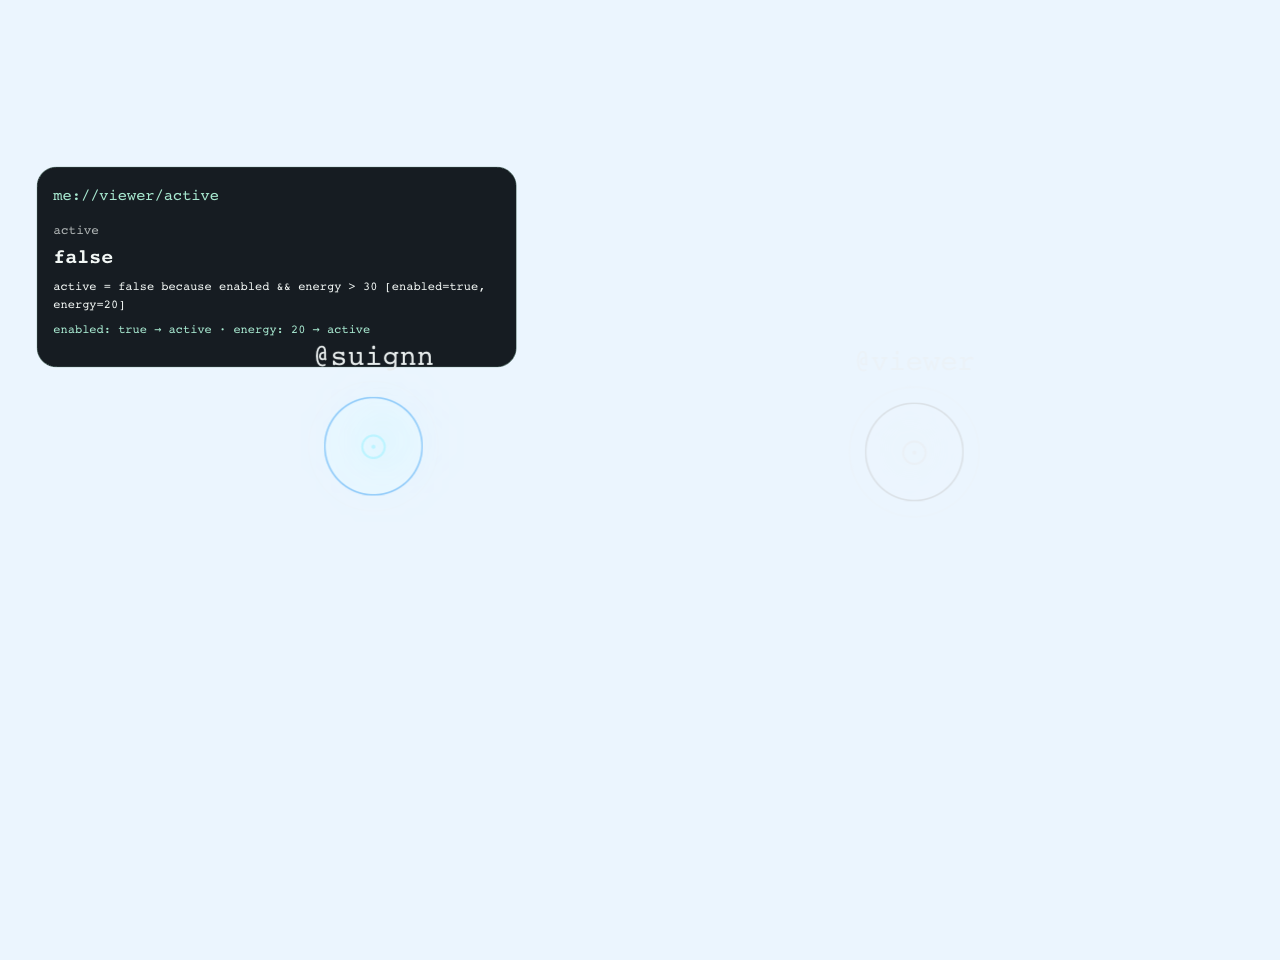
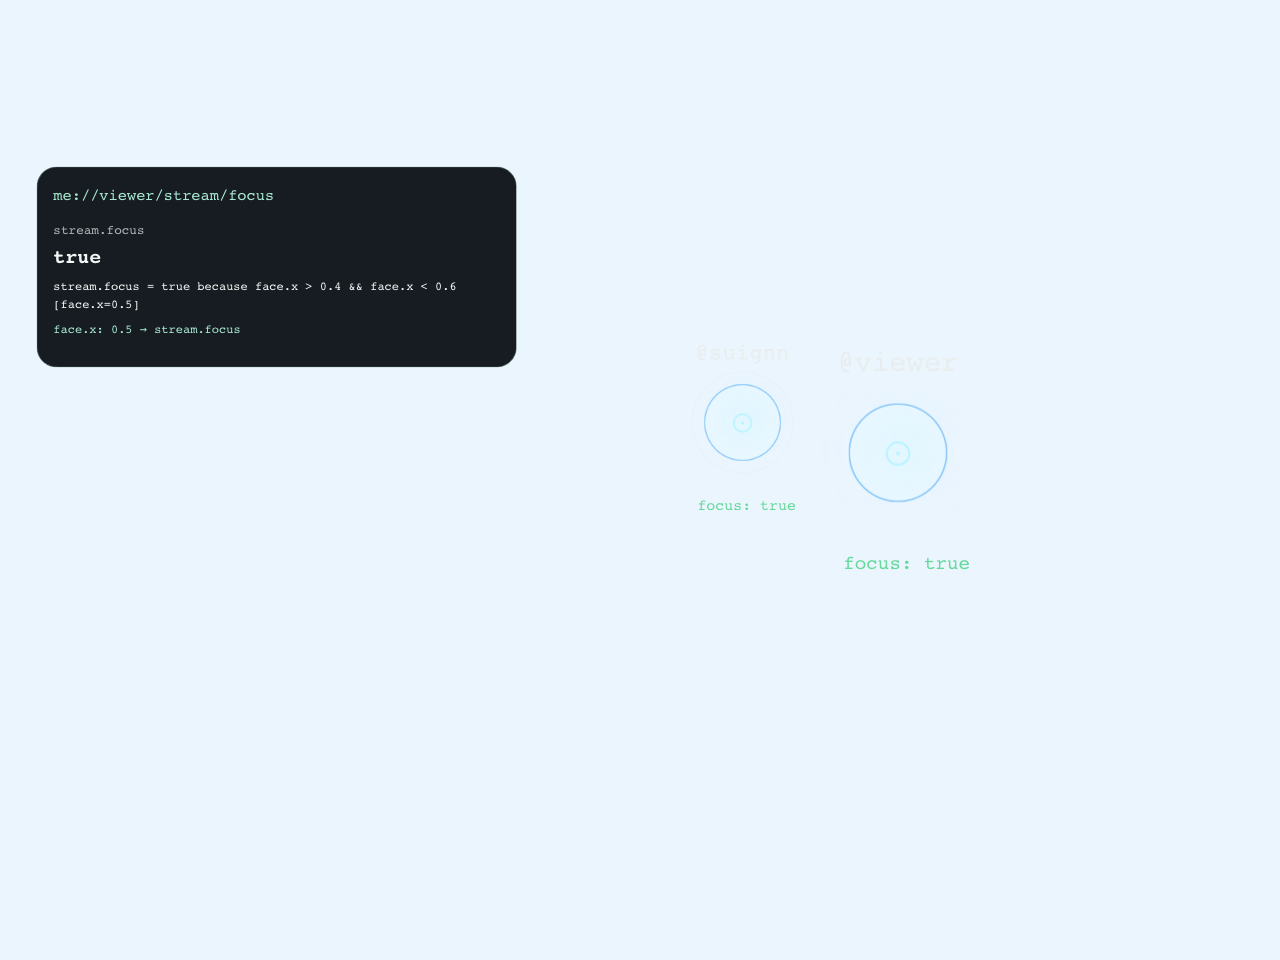
refactor: remove legacy energy and activation demo state

diff --git a/overlay/spiders.js b/overlay/spiders.js
@@ -60,12 +60,11 @@ function Kernel({ kernel, index, count, selected, onSelect }) {
   const x = tracked ? Math.max(44 * scale, Math.min(1920 - 44 * scale, (1920 - fitWidth) / 2 + face.x * fitWidth + side.current * 160)) : (index % columns + 0.5 + (columns - rowCount) / 2) * 1600 / columns + 160;
   const y = tracked ? Math.max(64 * scale, Math.min(1080 - 44 * scale, (1080 - fitHeight) / 2 + face.y * fitHeight - 90)) : (Math.floor(index / columns) + 0.5) * 780 / rows + 110;
   const focus = kernel.graph?.nodes.find(node => node.path === 'stream.focus')?.value;
-  const active = kernel.graph?.nodes.find(node => node.path === 'active')?.value;
-  return h('g', { 'data-focus': focus === undefined ? 'undefined' : String(focus), 'data-active': active === undefined ? undefined : String(active), 'data-me-id': kernel.id, 'data-me-bubble': kernel.id, 'data-face-follow': tracked ? 'true' : undefined,
+  return h('g', { 'data-focus': focus === undefined ? 'undefined' : String(focus), 'data-me-id': kernel.id, 'data-me-bubble': kernel.id, 'data-face-follow': tracked ? 'true' : undefined,
     transform: `translate(${x} ${y}) scale(${scale})`, onClick: onSelect, role: transparent ? undefined : 'button', tabIndex: transparent ? undefined : 0,
     onKeyDown: event => { if (event.key === 'Enter' || event.key === ' ') { event.preventDefault(); onSelect(event); } },
     'aria-label': `.me kernel @${kernel.owner}`, 'aria-pressed': transparent ? undefined : selected,
-    className: 'me-companion', style: { cursor: transparent ? 'default' : 'pointer', opacity: active === false ? .38 : 1, filter: active === false ? 'grayscale(1)' : undefined } },
+    className: 'me-companion', style: { cursor: transparent ? 'default' : 'pointer', opacity: 1 } },
     h('title', null, `@${kernel.owner} · ${kernel.presenceReason}`),
     !transparent ? h('rect', { x: -44, y: -60, width: 88, height: 100, fill: 'transparent', pointerEvents: 'all' }) : null,
     h('g', { className: 'me-companion-float', 'data-companion-motion': true, style: { animationDelay: `${-index * 0.8}s` } },

diff --git a/README.md b/README.md
@@ -64,28 +64,26 @@ Offline verification: `CHROME='/Applications/Google Chrome.app/Contents/MacOS/Go
 
 | Command | Result |
 |---|---|
-| `!me` | Declare your own kernel and present its active state on stream. |
-| `!me off` / `!me on` | Set your `enabled` fact. An inactive bubble dims instead of disappearing. |
-| `!me set energy 20` | Set your energy (0–100); the default rule makes `active` false. |
-| `!me rule active threshold 30` | Install the fixed template `enabled && energy > 30`. |
-| `!me rule active compare energy >= 30` | Compare energy with a bounded number; always gated by enabled. |
-| `!me rule active and enabled face.present` | React to the streamer's face-presence input, with enabled gating. |
-| `!me read active` | Read your value and present it on stream. |
-| `!me explain active` or `!explain active` | Present the actual native explanation and dependency values. |
-| `!me me("twitch.profile.login")` | Existing validated read syntax remains supported. |
-| `!me me.explain("active")` or `!explain` | Existing explain syntax; no-path explain now defaults to active. |
+| `!me` | Declare your independent kernel and present `stream.focus` on stream. |
+| `!me read twitch.profile.login` | Read your verified Twitch login. |
+| `!me read face.x` | Read the streamer's current horizontal face coordinate. |
+| `!me read stream.focus` | Read the native face-driven result. |
+| `!me explain stream.focus` or `!explain stream.focus` | Present the real expression and its `face.x` input. |
+| `!explain` | Explain `stream.focus` by default. |
+| `!me me("twitch.profile.login")` | Existing validated read syntax. |
+| `!me me.explain("stream.focus")` | Existing validated explanation syntax. |
 
-Rules use templates only. `active` is the only writable rule target. Threshold takes a number 0–100; compare accepts only `energy`, one of `> >= < <= == !=`, and a number 0–100. AND accepts two boolean inputs from `enabled` and `face.present`; all templates retain enabled gating. Quotes, arbitrary expressions, JavaScript calls and writes to `face.*` or `twitch.*` are rejected. Facts writable from chat are only `enabled` (boolean) and `energy` (number 0–100).
+The viewer graph contains only `twitch`, `face` and `stream.focus`. Legacy `enabled`, `energy`, `active`, on/off, set and rule-template commands have been removed. Chat declares, reads and explains; it cannot overwrite imported facts or the fixed face rule, execute JavaScript, enable a camera or start a broadcast.
 
-Writes have a 3-second gap/five per 30 seconds per stable Twitch user ID; reads/explanations have a 1-second gap/ten per 30 seconds. Limits include invalid attempts. Commands target only the sender's kernel; there is no username/ID parameter to write someone else's state. Maximum 64 session kernels. EventSub duplicates and the reply account's own messages are ignored. Legacy Spider creation commands remain unsupported.
+Declaration and invalid-command attempts retain the 3-second gap/five-per-30-second limit per stable Twitch user ID; reads/explanations retain a 1-second gap/ten-per-30-second limit. Commands target the sender's kernel. Maximum 64 session kernels. EventSub duplicates and the reply account's own messages are ignored. Legacy Spider creation commands remain unsupported.
 
 ## Shared presentation: app → OBS → Twitch
 
 Open a bubble in the web app and select a public fact or branch. The authenticated channel owner's selection is relayed by the localhost:3017 server to all kernel views, including a separately loaded transparent OBS source. For Twitch resources, that source uses the same profile and Stream / Channel / Followers card component as the web app, with editing disabled. Live kernel paths display their actual value and native `explain()` reason and dependency values. Closing the bubble clears the presentation. The web app retains editing controls; the shared Twitch card contains server-confirmed public values only, never unsaved edits, credentials or a DOM capture.
 
-Viewer commands declare/present only their own kernel. Accepted changes/read/explain requests can place it on stream for 15 seconds. Shared chat presentations have a global two-second gap; host selections take priority for three seconds. Host presentation writes require the authenticated broadcaster, exact Origin and CSRF; WebSocket clients cannot publish arbitrary presentation payloads. New OBS connections receive the current presentation immediately. More than six selected leaves are summarized in the broadcast card; all paths remain inspectable in the app.
+Viewer commands declare/present only their own kernel. Declaration/read/explain requests can place it on stream for 15 seconds. Shared chat presentations have a global two-second gap; host selections take priority for three seconds. Host presentation writes require the authenticated broadcaster, exact Origin and CSRF; WebSocket clients cannot publish arbitrary presentation payloads. New OBS connections receive the current presentation immediately. More than six selected leaves are summarized in the broadcast card; all paths remain inspectable in the app.
 
-`enabled`, `energy` and `active` are real top-level kernel memories. The default rule is `enabled && energy > 30`. `face.present`, `face.x` and `face.y` are trusted read-only facts about the **streamer's tracked face**, not the viewer's face or identity. Positions are normalized and rounded to two decimals; lost/stopped/stale tracking sets presence false and coordinates null. No chat command can enable a camera, change these facts or start a broadcast. Optical display points remain transient outside the kernel.
+`face.present`, `face.x` and `face.y` are trusted read-only facts about the **streamer's tracked face**, not the viewer's face or identity. Positions are normalized and rounded to two decimals; lost/stopped/stale tracking sets presence false and coordinates null. No chat command can enable a camera, change these facts or start a broadcast. Optical display points remain transient outside the kernel.
 
 Camera inputs refresh at most twice per second, unchanged facts are not rewritten, and the runtime periodically reconstructs each kernel from current facts and native rule expressions to bound internal write history. This uses public this.me construction/read/explain APIs and preserves the public state/rules; it is not a persistent event history or a modified kernel. Server restart clears session data.
 
@@ -99,7 +97,7 @@ The selected kernel's profile header renders its real Twitch avatar, display nam
 
 The profile and bubble card use the label `@<login>.twitch` with the actual avatar and Twitch logo. This is a local account label, not a claimed protocol namespace or a registered domain. **Stream / Channel / Followers** are always-visible card tabs; Profile facts remain available in the technical inspector. The bubble is a rendered GUI surface: Channel is a labeled form with a human-readable language name and tags; Stream shows live/offline status and live statistics; Followers shows the actual count. The account header itself is the rendered profile, and its Twitch icon opens the channel and has an accessible **Open in Twitch** tooltip; no duplicate profile tab or View on Twitch button is shown. Twitch resource forms retain their rendered GUI presentation; live facts expose their native output and explanation. Channel, Stream and Followers are API resource choices, not invented kernel facts before loading.
 
-Clicking a bubble opens its controls beside the node, synchronized with the inspector. Both share the selected kernel/path. Clicking or focusing a channel field, selecting tags, a profile avatar/display name, a follower count or any available live-stream value selects its matching inspector leaf. The matching rendered control receives a theme-colored outline. Selecting a branch or leaf in the inspector also reopens the selected node’s card if closed, without moving keyboard focus or changing the active sidebar. Selecting a profile ID highlights its account header; no extra ID field is added to the GUI. The bubble card retains its original profile and Stream / Channel / Followers UI, initially showing Stream. Live facts and rule code stay in the Inspector; they are not added to the bubble card. The inspector tree begins at me and includes twitch, enabled, energy, face and active. Closing the card preserves selection. Editing controls remain outside the transparent OBS source; the selected public value and reason are shared through the presentation card.
+Clicking a bubble opens its controls beside the node, synchronized with the inspector. Both share the selected kernel/path. Clicking or focusing a channel field, selecting tags, a profile avatar/display name, a follower count or any available live-stream value selects its matching inspector leaf. The matching rendered control receives a theme-colored outline. Selecting a branch or leaf in the inspector also reopens the selected node’s card if closed, without moving keyboard focus or changing the active sidebar. Selecting a profile ID highlights its account header; no extra ID field is added to the GUI. The bubble card retains its original profile and Stream / Channel / Followers UI, initially showing Stream. Live facts and rule code stay in the Inspector; they are not added to the bubble card. The inspector tree begins at me and includes twitch, face and stream.focus. Closing the card preserves selection. Editing controls remain outside the transparent OBS source; the selected public value and reason are shared through the presentation card.
 
 The inspector alone presents formatted whole-section JSON or a compact leaf value, with an icon-only Copy action and no surrounding code card. Its code tree starts at **me**, including the live graph and **twitch** branch, with **profile / stream / channel / followers** as lowercase property keys instead of category tabs. Expand branches to see actual stored leaves and their values, then select a row to inspect it. The root is a navigation view without a duplicate aggregate output; selecting a branch or leaf reveals its Output, Explain and Script controls. Arrow keys, Home/End and Enter navigate the tree. Branches are UI groupings of real memory paths; unloaded API sections have no fabricated values and are fetched on selection. Long string previews are truncated in the tree, while selecting the leaf exposes its complete value. It automatically reads `me(path)` from the existing server kernel. Compact **Explain / Script** controls below the output show the actual `me.explain(path)` JSON or the complete construction source, including expression, derivation and metadata from this.me 4.2.1. Tab selection persists across paths and kernels; obsolete query results are hidden. Explain is initially selected; arrow keys and Home/End navigate the tabs. Native GUI syntax highlighting is preserved without code-block headers, borders or backgrounds; copy actions use the overlapping-squares icon with accessible tooltips. Explain presents the matching syntax directly on the inspector background. Its compact **L…** link identifies the original source line(s), and the **{}** icon reveals the unmodified native explanation only when requested. The location link (**View in Script** to assistive technology) opens the complete, numbered script and scrolls to the highlighted declaration. Locations refer to the currently displayed reproducible construction script; they are not native VM execution frames or historical call stacks. Unrelated profile/section declarations are omitted from the Explain excerpt. The construction script is not re-executed, and arbitrary code/eval is not accepted. This object inspector is separate from GUI's general interface inspector and browser DOM developer tools. Face following changes presentation only. Bubble sizes use a larger resting cap (3.6) and tracking scale (2.8), with density limits and proportional frame margins to keep the scene readable.
 

diff --git a/evidence/SESSION.md b/evidence/SESSION.md
@@ -725,3 +725,12 @@ GitHub API confirmed suiGn/codex-me already public on main. Fetched origin/main;
 User requested one small rule, stream.focus = face.x >0.4 && face.x <0.6, to demonstrate real input→kernel recomputation→native explanation within a short implementation window. Verified both scoped/root operator forms on this.me4.2.1: center.5 true, outside/boundaries false, missing/null face.x yields native undefined. Seeded exactly this fixed rule in each independent participating kernel using the root-path declaration shown in its reproducible script. No chat grammar, OAuth, connection, camera permissions or kernel library changes. Face facts remain read-only and already refer to the streamer. Added a green status dot to the real inspector node, expanded stream branch, small web/OBS focus readout, and honest undefined output rendering. Actual graph edge and native explain inputs come from face.x; no explanation or false value fabricated.
 
 New focus check passes with simulated Twitch/coordinates and real kernel/server/GUI/WS: strict bounds, center/outside, absent input, edge/trace,700 updates through compaction, fixed-rule write rejection, inspector light, separate OBS result/reason, exact source declaration. All10 original and19 server tests pass. Restarted only codex-me on verified-free3017, reused OAuth (authenticated/EventSub connected), reloaded web, refreshed confirmed OBS Browser source. Actual inspector selected stream.focus with native expression and missing face.x trace. Camera and OBS stream were already off and left off; no claim of a completed human face-center live take. Screenshot outside repo:/private/tmp/codex-me-face-focus.png; committed image is synthetic only in evidence/focus. Documented short reproduction and adjusted the English video plan to use this real-input rule. No real chat messages, Start/Stop stream, pushes of credentials, or changes to package-lock.json.
+
+
+### 2026-11-02 — Remove legacy energy/activation demo state
+
+User identified enabled/energy/active as obsolete demo machinery and asked to retain Twitch, face and stream.focus without touching login/connection. Removed their seed facts/rule, the legacy on/off/set/rule-template parser/handlers/help, and the bubble dimming tied to active. Declaration and no-path explain now present stream.focus. Current chat supports declaration, read and explain, with existing per-user limits; attempts to recreate legacy state or overwrite facts/rules are rejected. No generic evaluator or new write grammar added.
+
+Updated README command table/current graph description and English video plan. Historical evidence remains historical. Updated integrated live-graph check verifies exact root set face/stream/twitch,404 for removed fields, rejects retired commands, default explain, identity isolation, native face rule through700 updates, trusted face changes, declaration/read/explain→separate OBS presentation and missing-input clearing. It passes; focus check,19 server checks and10 original tests also pass. Original test/ files untouched.
+
+Restarted only codex-me on verified-free3017 with saved OAuth. Reloaded app and selected stream.focus in Inspector. Actual API confirmed roots twitch/face/stream and zero legacy fields; source refreshed. Camera was already off and remained off. OBS output was already inactive and left inactive; no real face-centered live take or broadcast Start/Stop claimed. Actual UI screenshot outside repo:/private/tmp/codex-me-clean-graph.png. No real Twitch messages, channel settings, login/connection code or package-lock.json changes included. Publishing cleaned main for the current submission.

diff --git a/docs/DEMO-VIDEO.md b/docs/DEMO-VIDEO.md
@@ -10,7 +10,7 @@ Target duration: 2:40. Record actual Twitch behavior; do not describe the offlin
 | 0:55–1:15 | Select stream.focus in the Inspector; show its expression and native Explain JSON with face.x as input. | “The graph shows both the result and the exact input that produced it.” |
 | 1:15–1:35 | Send `!me explain stream.focus`. Show the actual Twitch output and explanation card on video. | “This explanation comes from the kernel, not generated text or an LLM.” |
 | 1:35–1:55 | Streamer opens the existing bubble card, then selects face.x and stream.focus in the Inspector; compare the app and OBS program preview. Close it to clear. | “The streamer’s selected public value is synchronized to the broadcast. Private controls stay in the app.” |
-| 1:55–2:10 | Optional: tracking already authorized; use `!me rule active and enabled face.present`. Face enters/leaves camera. | “The streamer’s face presence is a read-only input. Viewers can react to it but cannot turn on a camera.” |
+| 1:55–2:10 | Stop tracking; show face.present=false and stream.focus=undefined, with the native missing-input explanation. | “Without a face coordinate, the kernel reports a missing input. It does not invent a result.” |
 | 2:10–2:35 | Codex session, selected source changes, tests and session ID. | “I built the OAuth, EventSub and chat bridge, shared presentation, safe command handling and integration checks with Codex, using my existing this.me and this.gui libraries.” |
 | 2:35–2:40 | Project name and repository. | “Codex .me: a live graph that explains itself, built together through Twitch chat.” |
 
@@ -19,7 +19,7 @@ Target duration: 2:40. Record actual Twitch behavior; do not describe the offlin
 - Authorize the channel owner in the local app; use a different Twitch viewer account for commands. The reply account is ignored to prevent bot loops.
 - Refresh the app and the OBS Browser source after code updates. Source URL: `http://localhost:3017/overlay/?transparent=1&dev=0`, dimensions 1920×1080.
 - Streaming starts only by the human’s explicit action. Do not capture passwords, tokens, OAuth codes or private files.
-- Allow at least three seconds between writes; at most five writes per 30 seconds. Read/explain requests have a separate one-second gap. Shared chat cards have a two-second global gap and expire after 15 seconds; a host selection has priority for three seconds.
+- Allow at least three seconds between declarations; at most five declaration/invalid attempts per 30 seconds. Read/explain requests have a separate one-second gap. Legacy enabled/energy/active and their write/rule commands are removed. Shared chat cards have a two-second global gap and expire after 15 seconds; a host selection has priority for three seconds.
 - Use only the takes in which the real Twitch channel visibly receives the command and the resulting video. Record a retry if anything fails; do not conceal a missing integration with mock output.
 - Keep a local recording before uploading. Publishing the public YouTube video and submitting the form require the owner’s authorization.
 - Include the dedicated build session ID: `01a17f67-001b-7681-bb9f-ecc477f091a5`.
